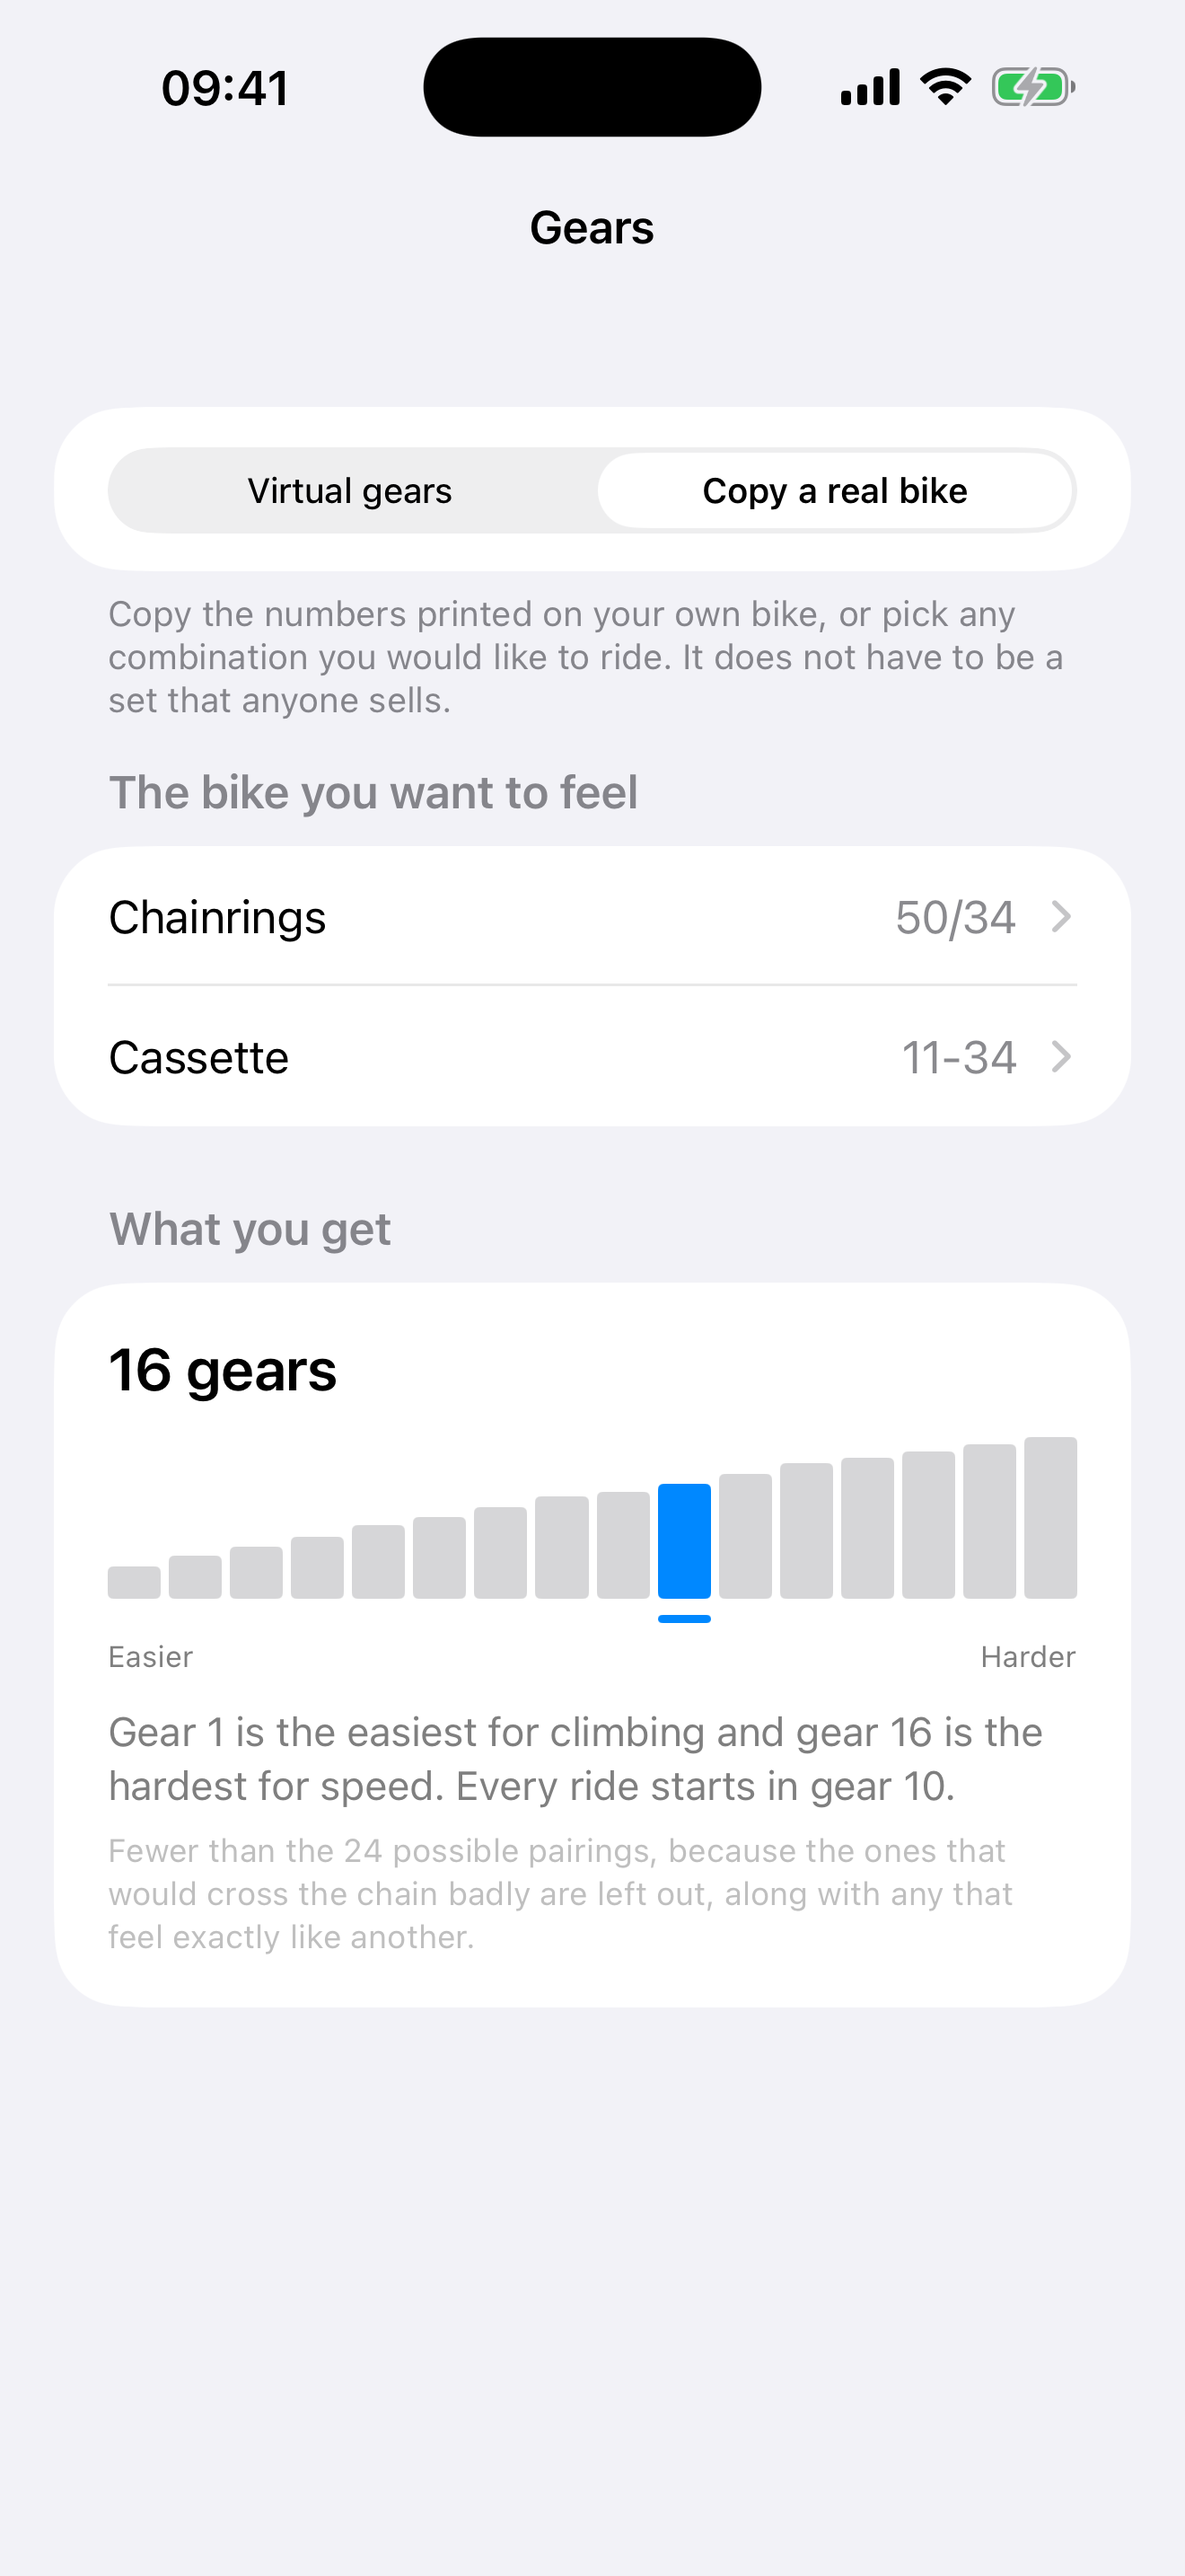
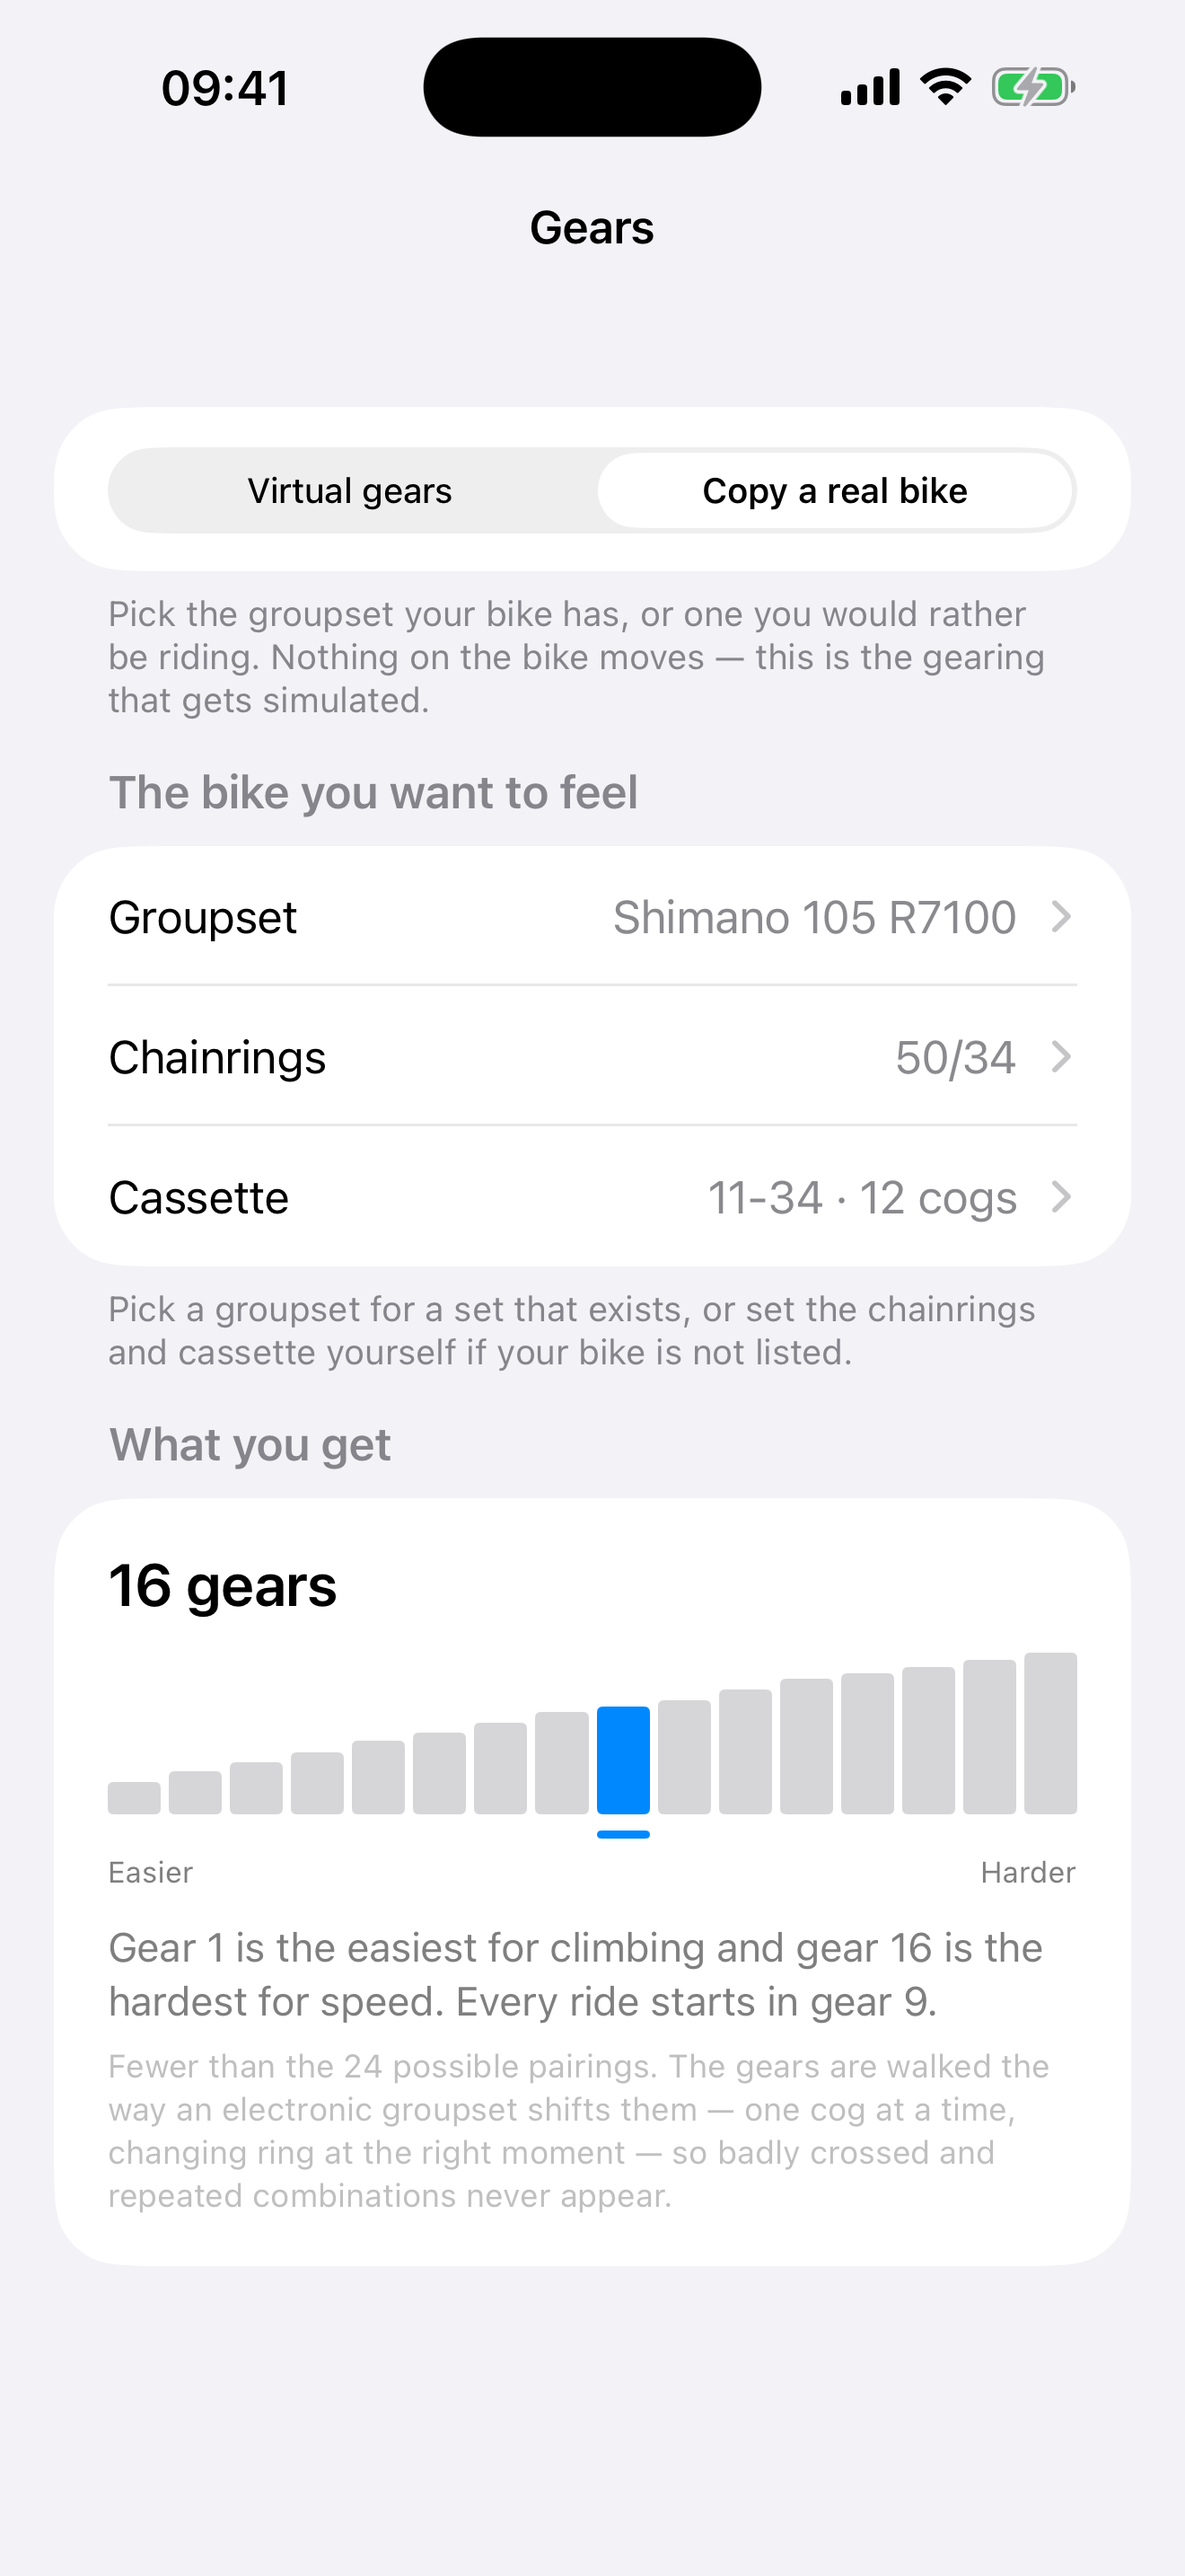
Confirm the parked gear in the UI and refresh the screenshots
Adds the -shotUnparked fixture and two UI tests: that the parked-gear
screen recommends a gear and lets it be confirmed, and that Start names
the parked gear when that is the missing step. The existing startup
fixtures now park the bike, because every screen downstream of setup
assumes it.

The startup chain reminder names the confirmed gear rather than giving
generic advice, and the ladder notes were shortened so the Gears row
reads as one line.

Groupset lookup now prefers the default when several groupsets share the
same parts. 50/34 with an 11-34 is sold on everything up to Dura-Ace, and
naming the most expensive one a rider might own is a worse guess than the
most common one they probably do.

Screenshots regenerated for the new wording and gear counts.

Copilot-Session: 2c3d711c-cb97-4bfa-a302-2d01fe5d2f1f

diff --git a/VirtualGearsUITests/VirtualGearsUITests.swift b/VirtualGearsUITests/VirtualGearsUITests.swift
@@ -242,7 +242,10 @@ final class VirtualGearsUITests: XCTestCase {
         launch("-shotSettings")
 
         assertVisible("screen.settings")
-        for destination in ["Trainer", "Zwift Click", "Wahoo Headwind", "Gears"] {
+        for destination in [
+            "Trainer", "Zwift Click", "Wahoo Headwind", "Gears",
+            "Gear the bike is in",
+        ] {
             let row = app.staticTexts[destination].firstMatch
             assertVisibleElement(row)
             row.tap()
@@ -252,6 +255,56 @@ final class VirtualGearsUITests: XCTestCase {
             )
             app.navigationBars.buttons.firstMatch.tap()
         }
+    }
+
+    /// The gear the bike is parked in is the one thing setup cannot guess, so
+    /// the screen has to name a gear, mark it as the recommendation and let it
+    /// be confirmed in a tap.
+    func testParkedGearScreenRecommendsAGearAndLetsItBeConfirmed() {
+        launch("-shotSettings")
+
+        app.staticTexts["Gear the bike is in"].firstMatch.tap()
+        assertVisible("screen.parkedGear")
+
+        // The advice has to name a gear rather than describe one, because
+        // "a quiet, straight chain line" is true of gears twice as hard as
+        // each other.
+        let advice = app.staticTexts.matching(
+            NSPredicate(format: "label CONTAINS[c] %@", "Park the chain on the")
+        ).firstMatch
+        XCTAssertTrue(advice.waitForExistence(timeout: 3))
+
+        // Gears that would put part of the ladder beyond the trainer's reach
+        // are still listed, and say so, rather than silently vanishing.
+        let outOfReach = app.buttons.matching(
+            NSPredicate(
+                format: "label CONTAINS[c] %@", "Puts some gears out of reach"
+            )
+        ).firstMatch
+        XCTAssertTrue(outOfReach.waitForExistence(timeout: 3))
+
+        // Confirming one of them has to stick and has to leave a one-tap way
+        // back, rather than the app silently overriding the rider.
+        outOfReach.tap()
+        XCTAssertTrue(
+            app.buttons.matching(
+                NSPredicate(format: "label BEGINSWITH %@", "Use ")
+            ).firstMatch.waitForExistence(timeout: 3),
+            "Confirming another gear should offer a way back to the "
+                + "recommendation"
+        )
+    }
+
+
+    /// The parked gear is the app's biggest silent-failure risk, so a rider who
+    /// has not confirmed one is told exactly that rather than being told to wait
+    /// for a trainer that is already connected.
+    func testStartNamesTheParkedGearWhenThatIsWhatIsMissing() {
+        launch("-shotUnparked")
+
+        assertVisibleElement(app.buttons["Set the gear you are in"])
+        XCTAssertFalse(app.buttons["Waiting for trainer"].exists)
+        XCTAssertFalse(app.buttons["Start Shifting"].exists)
     }
 
     func testVirtualGearChoiceShowsModeAndPreview() {
@@ -417,9 +470,10 @@ final class VirtualGearsUITests: XCTestCase {
         // vanished the instant the trainer connected and the button above it
         // jumped up to fill the gap. It must now be part of the fixed layout,
         // present in every startup state.
-        let reminderText = "Use the smaller front ring if your bike has one. "
-            + "Pick a rear gear that keeps the chain straight, and leave it "
-            + "there."
+        // Once a gear is confirmed the reminder names it, which is what makes
+        // it checkable against the bike.
+        let reminderText = "Chain on 34 at the front and 15 at the back, and "
+            + "leave it there."
 
         launch("-shotStarting")
         assertVisibleElement(app.staticTexts[reminderText])
@@ -540,4 +594,5 @@ final class VirtualGearsUITests: XCTestCase {
             line: line
         )
     }
+
 }

diff --git a/VirtualGearsProduct/VirtualGearsApp.swift b/VirtualGearsProduct/VirtualGearsApp.swift
@@ -96,6 +96,9 @@ struct VirtualGearsApp: App {
 enum ScreenshotFixture: String {
     case starting = "-shotStarting"
     case ready = "-shotReady"
+    /// A trainer that is connected but a bike whose gear has not been
+    /// confirmed — the one blocker a rider cannot fix by waiting.
+    case unparked = "-shotUnparked"
     case failed = "-shotFailed"
     case ride = "-shotRide"
     case rideAccessibility = "-shotRideAccessibility"
@@ -138,7 +141,7 @@ private struct ScreenshotFixtureView: View {
     var body: some View {
         Group {
             switch scenario {
-            case .starting, .ready, .failed:
+            case .starting, .ready, .failed, .unparked:
                 StartupView(
                     store: store,
                     kickr: kickr,
@@ -205,6 +208,11 @@ private struct ScreenshotFixtureView: View {
             id: ScreenshotFixture.headwindID
         )
         configuration.usesVirtualGears = scenario != .realGears
+        // The screenshot rider has already parked the bike and confirmed the
+        // gear, which is the state every screen after setup is drawn in.
+        if scenario != .unparked {
+            configuration.parkInSuggestion()
+        }
         store.configuration = configuration
 
         kickr.stageScreenshot(
@@ -224,7 +232,8 @@ private struct ScreenshotFixtureView: View {
             click.stageScreenshotPressedButton(.plus)
         }
 
-        if scenario == .ready || scenario == .rideWaiting {
+        if scenario == .ready || scenario == .rideWaiting
+            || scenario == .unparked {
             (coordinator.peripheral as? FTMSPeripheral)?
                 .stageScreenshotAdvertising()
         } else if isRideScenario {

diff --git a/VirtualGearsProduct/VirtualGearsHomeView.swift b/VirtualGearsProduct/VirtualGearsHomeView.swift
@@ -309,16 +309,24 @@ struct StartupView: View {
         .frame(maxWidth: .infinity, alignment: .leading)
     }
 
-    /// The one thing the app cannot do for the rider.
+    /// The one thing the app cannot do for the rider. Once they have confirmed
+    /// a gear it names that exact gear, because a reminder that names the gear
+    /// can actually be checked against the bike; one that describes a chain
+    /// line cannot.
     private var chainReminder: some View {
-        Label(
-            "Use the smaller front ring if your bike has one. Pick a rear gear "
-                + "that keeps the chain straight, and leave it there.",
-            systemImage: "link"
-        )
+        Label(chainReminderText, systemImage: "link")
         .font(.footnote)
         .foregroundStyle(.secondary)
         .padding(.top, 4)
+    }
+
+    private var chainReminderText: String {
+        guard let parked = store.configuration.parkedGear else {
+            return "Use the smaller front ring if your bike has one. Pick a "
+                + "rear gear that keeps the chain straight, and leave it there."
+        }
+        return "Chain on \(parked.chainringTeeth) at the front and "
+            + "\(parked.cogTeeth) at the back, and leave it there."
     }
 
     private var demoEntry: some View {

diff --git a/Sources/VirtualGearsCore/GroupsetCatalog.swift b/Sources/VirtualGearsCore/GroupsetCatalog.swift
@@ -263,13 +263,19 @@ public enum GroupsetCatalog {
 
     /// The groupset a pair of parts belongs to, if any. Used to show a saved
     /// setup by the name printed on the bike rather than as two part numbers.
+    ///
+    /// Several groupsets share the same parts — 50/34 with an 11-34 is sold on
+    /// everything from 105 to Dura-Ace — so the default is preferred when it
+    /// fits. Guessing the most expensive groupset a rider *might* own is worse
+    /// than guessing the most common one they probably do.
     public static func groupset(
         chainringID: String,
         cassetteID: String
     ) -> Groupset? {
-        groupsets.first {
+        let matches = groupsets.filter {
             $0.chainringIDs.contains(chainringID)
                 && $0.cassetteIDs.contains(cassetteID)
         }
+        return matches.first { $0.id == defaultGroupsetID } ?? matches.first
     }
 }

diff --git a/Sources/VirtualGearsCore/GearLadder.swift b/Sources/VirtualGearsCore/GearLadder.swift
@@ -52,7 +52,7 @@ public enum GearLadderCatalog {
     public static let extendedRange = GearLadder(
         id: "virtual-gears-24",
         name: "Virtual Gears 24",
-        note: "Twenty-four gears, 0.60 to 5.49. Extra-low climbing range.",
+        note: "0.60 to 5.49, with an extra-low climbing range",
         ratiosHundredths: [
             60, 68, 77, 88, 100, 113, 129, 146,
             165, 187, 212, 240, 261, 282, 303, 324,
@@ -72,7 +72,7 @@ public enum GearLadderCatalog {
     public static let standardRange = GearLadder(
         id: "standard-24",
         name: "Standard 24",
-        note: "Twenty-four gears, 0.75 to 5.49. The common virtual ladder.",
+        note: "0.75 to 5.49, the common virtual ladder",
         ratiosHundredths: [
             75, 87, 99, 111, 123, 138, 153, 168,
             186, 204, 222, 240, 261, 282, 303, 324,

diff --git a/Tests/VirtualGearsCoreTests/AppConfigurationTests.swift b/Tests/VirtualGearsCoreTests/AppConfigurationTests.swift
@@ -111,8 +111,7 @@ final class AppConfigurationTests: XCTestCase {
         XCTAssertEqual(configuration.drivetrainName, "Virtual Gears 24")
         XCTAssertEqual(
             configuration.gearSummary,
-            "24 gears · Twenty-four gears, 0.60 to 5.49. "
-                + "Extra-low climbing range."
+            "24 gears · 0.60 to 5.49, with an extra-low climbing range"
         )
     }
 
